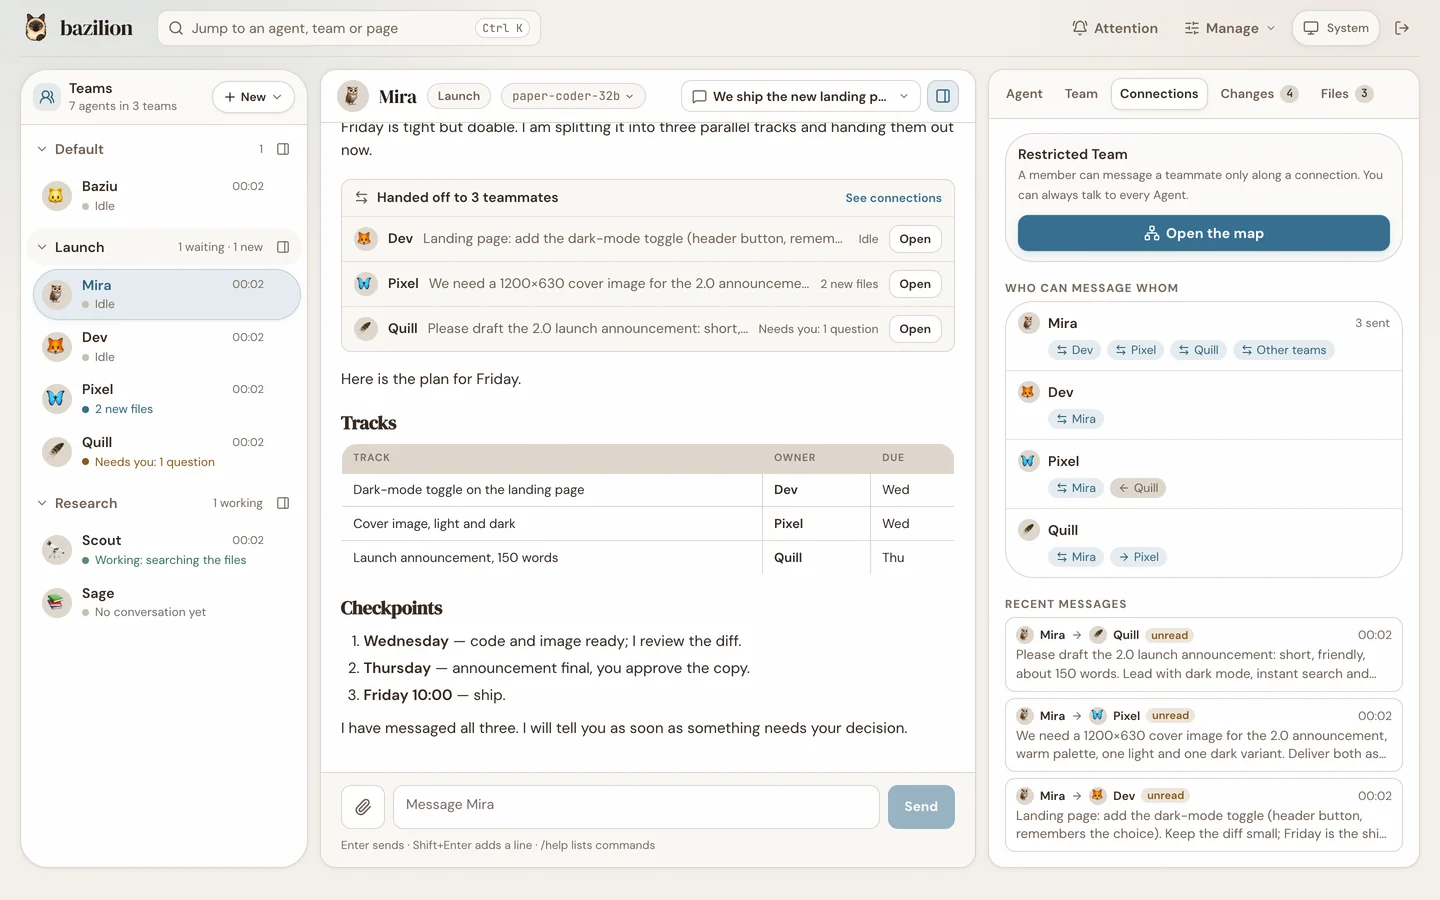
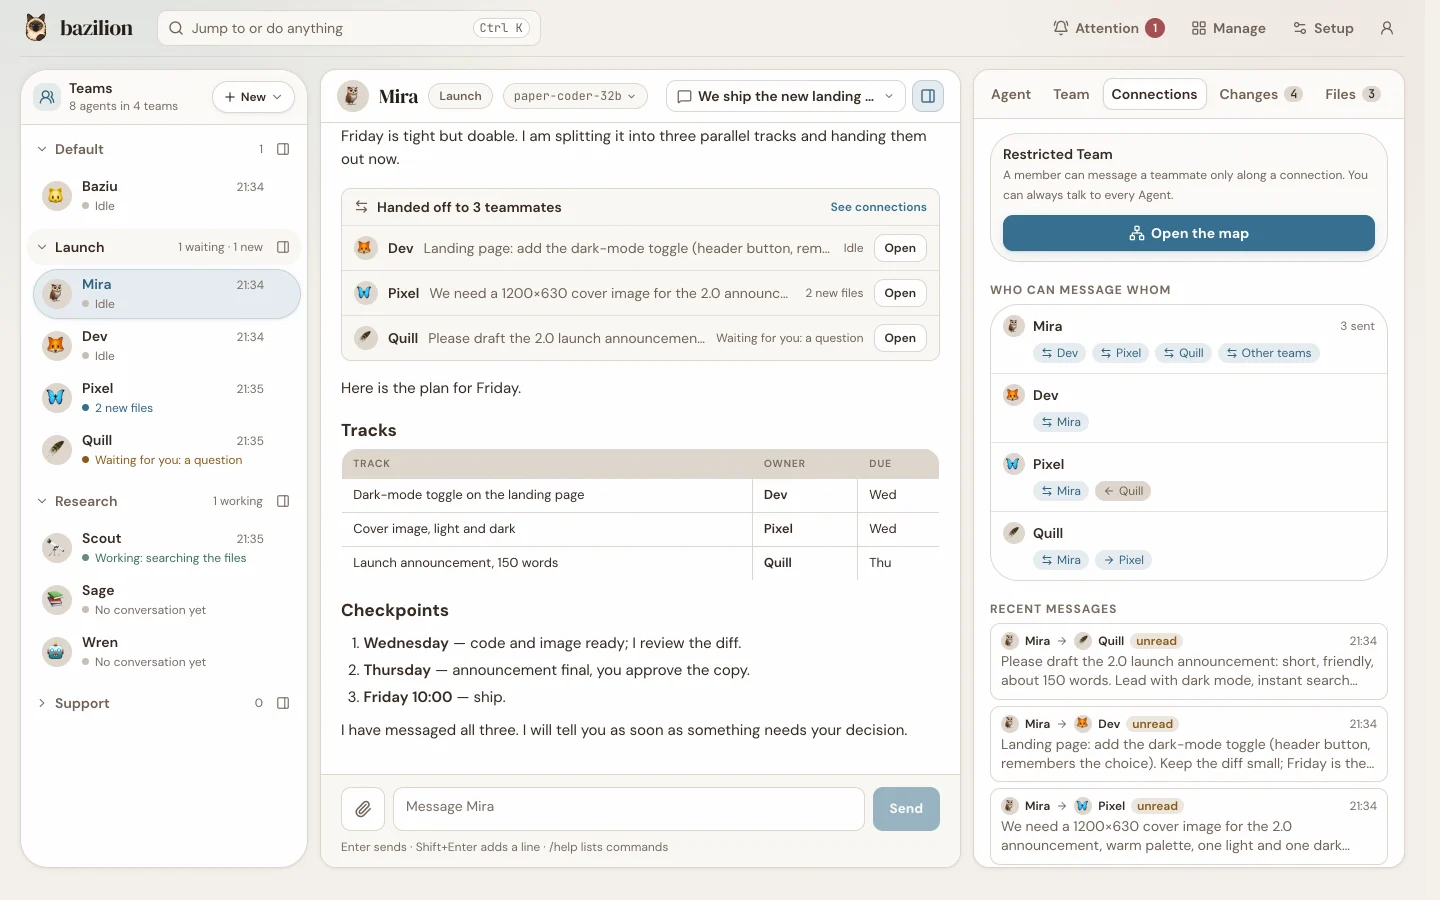
docs: Bazilion 0.54.0
What's new gains 0.54.0 (Attention lists what Agents wait on, an overview
to open on, the sheets on the shared cards, Jump to with actions, keyboard
shortcuts) and drops 0.50.0; 0.53.0 is told in the past. The tour of the
web interface gains the overview, Jump to and the keyboard, and the new top
bar; Attention, questions, daily operations and the coding environment say
what changed. Every product picture is taken again on 0.54.0 (the top bar
changed), with four new ones: the overview, Attention, Jump to and a
Schedules sheet. The version references move to 0.54.0.

diff --git a/src/content/docs/docs/whats-new.md b/src/content/docs/docs/whats-new.md
@@ -1,6 +1,6 @@
 ---
 title: What's new
-description: The latest four Bazilion releases, newest first; Bazilion 0.53.0 bundles Pi 1.5.2.
+description: The latest four Bazilion releases, newest first; Bazilion 0.54.0 bundles Pi 1.5.2.
 ---
 
 The latest four releases, newest first. Older releases are summarised on
@@ -8,12 +8,97 @@ The latest four releases, newest first. Older releases are summarised on
 [GitHub Releases](https://github.com/rullopat/bazilion/releases). Each section describes its own
 release; the rest of the documentation describes the current one.
 
+## Bazilion 0.54.0
+
+Published **2026-11-22**. The web UI now agrees on what needs you. An Agent's question or command
+to approve comes first in **Attention**, the top bar's count and the browser tab stay current, and
+an Agent blocked on you reads **Waiting for you** everywhere. The workspace opens on an overview,
+its sheets use the same cards as Setup and Manage, **Jump to** runs actions, and keyboard
+shortcuts move you around. The embedded Pi engine stays at 1.5.2. See the
+[GitHub release](https://github.com/rullopat/bazilion/releases/tag/v0.54.0) and
+[the tour of the web interface](/docs/web-interface/).
+
+![The workspace with nothing open: an overview of who is waiting for you, who is working, the Teams and the latest files.](/screenshots/overview.webp)
+
+### Upgrade: install and start again
+
+The database schema is unchanged, so a 0.26, 0.27, 0.50, 0.51, 0.52 or 0.53 home opens as it is.
+Stop the daemon, then:
+
+```sh
+npm install -g bazilion@0.54.0
+bazilion dashboard
+```
+
+Nothing is set or moved by the upgrade. A Team you already have keeps its USER.md as it is,
+starter text included; only new Teams start with an empty one. Clear the old text under **About
+you** in the Team tab if you want Agents to fill it in from scratch.
+
+### Added
+
+- **What waits on you comes first in Attention.** An Agent's open question and a command waiting
+  for your approval are Attention items, listed before everything else, soonest to expire first,
+  each with the time it stops waiting. **Answer** and **Decide** open the Agent's conversation.
+  `bazilion attention list` shows them as `agent_question` and `command_approval`. They are not
+  sent as Telegram notifications; a question asked from Telegram is answered there.
+- **An overview to open on.** With nothing open, the workspace shows who is waiting for you, who
+  is working, every Team with its members, the latest files from every Team and the Agents that
+  were active last.
+- **Tab titles.** The browser tab names the page (`Mira · Launch — bazilion`, `Models · Setup —
+  bazilion`) and counts what waits for you (`(1) Quill · Launch — bazilion`).
+- **Jump to runs actions.** Agents waiting for you come first, then those working. It can start a
+  new conversation with the open Agent, add an Agent, switch the theme and list the shortcuts, and
+  it shows recent conversations.
+- **Keyboard shortcuts.** `?` lists them, `/` writes to the open Agent, Alt+↑ and Alt+↓ (⌥ on a
+  Mac) open the previous or next Agent, and ⌘. or Ctrl+. shows or hides the side panel. Keys
+  without ⌘ or Ctrl wait while you type in a field or a list is open.
+
+![Jump to with Quill waiting for an answer at the top, Scout working, and actions to start a conversation, add an Agent, switch the theme and list the shortcuts.](/screenshots/palette.webp)
+
+### Changed
+
+- **One phrase for an Agent blocked on you.** The list, the conversation's steps, the line under the
+  conversation, Jump to and the Team say `Waiting for you` in amber; green and `working` mean it is
+  working. `bazilion activity` says the same.
+- **The top bar** has three places, **Attention**, **Manage** and **Setup**, and a menu at the
+  end with the theme and **Log out**. The count on Attention stays current on every page.
+- **The workspace's sheets use the shared cards.** Schedules, learning, the mailbox, skills,
+  Telegram, the browser, About you, memory and a Team's settings look and work like Setup and
+  Manage. Schedules read as words (`Weekdays at 09:00`) and are added in a dialog with presets,
+  with cron kept for the rest. Memory notes are listed by title and read formatted. Skills are
+  switched on and off. The mailbox names Agents instead of showing ids.
+- **USER.md.** A new Team's USER.md starts empty and the Team tab invites you to write it; its
+  Agents fill it in as they learn about you. The **About you** editor reads it afresh when it
+  opens. A save made from text an Agent has changed since is refused, so the Agent's lines are
+  not lost.
+- **One kind of dropdown everywhere,** drawn like the model menu. The Agent tab saves a model or
+  reasoning change at once, with **Undo**. The Files tab and the gallery filter by kind and by
+  whom in the same way.
+- **Smaller things.** Headings use the text face, except page titles and the Agent's name, on one
+  type scale. A new or deleted file opens in one column in Changes, and a new Markdown file has a
+  **Preview**. The conversation's header stays on one line. The side panel's tabs scroll on a
+  phone. **Edit** sits under your last message. A Team opened on its own lists its members once.
+
+![Mira's schedules: a schedule that reads Weekdays at 09:00 with its message and a switch, and the recent runs below.](/screenshots/schedules.webp)
+
+### Fixed
+
+- **Manage → Skills** showed a skill with a scan finding one letter per line (0.53.0).
+
+### Limits
+
+- Questions and commands waiting for approval live in the daemon's memory: a daemon restart ends
+  them, and with them their Attention items.
+- The changes were checked by hand and by script in Chrome on macOS, at desktop and phone width
+  and in the dark theme, with a stand-in model server; the automated tests cover their logic on
+  Linux but do not drive a browser.
+
 ## Bazilion 0.53.0
 
-Published **2026-11-22**. Agents, Teams, their templates and skills are managed from one
+Published **2026-11-22**. Agents, Teams, their templates and skills came to be managed from one
 **Manage** section that looks and works like Setup: each page shows what there is first, creates
 in a dialog, and says what is worth knowing on each row. Setup's Telegram, System, MCP and Access
-pages use the same cards as Models and Tools. The embedded Pi engine stays at 1.5.2. See the
+pages took the same cards as Models and Tools. The embedded Pi engine stayed at 1.5.2. See the
 [GitHub release](https://github.com/rullopat/bazilion/releases/tag/v0.53.0) and
 [the Manage pages](/docs/web-interface/#manage).
 
@@ -21,18 +106,10 @@ pages use the same cards as Models and Tools. The embedded Pi engine stays at 1.
 
 ### Upgrade: install and start again
 
-The database schema is unchanged, so a 0.26, 0.27, 0.50, 0.51 or 0.52 home opens as it is. Stop
-the daemon, then:
-
-```sh
-npm install -g bazilion@0.53.0
-bazilion dashboard
-```
-
-Nothing is set or moved by the upgrade. The Templates page is now two tabs of Manage, **Agent
+The database schema was unchanged, so a 0.26, 0.27, 0.50, 0.51 or 0.52 home opened as it was, and
+nothing was set or moved by the upgrade. The Templates page became two tabs of Manage, **Agent
 templates** (`/templates/agents`) and **Team templates** (`/templates/teams`), at the addresses
-they had. A 0.25 or older home still needs the reset described in
-[Upgrade to 0.26.0](/docs/getting-started/#upgrade-to-0260).
+they had. The current commands are in [Upgrade to 0.26.0](/docs/getting-started/#upgrade-to-0260).
 
 ### Added
 
@@ -79,10 +156,11 @@ they had. A 0.25 or older home still needs the reset described in
 
 ### Limits
 
-- The workspace's side panel and sheets keep their own cards.
-- The Teams list does not say whether a Team's folder links to a project.
+- The workspace's side panel and sheets kept their own cards (0.54.0 moved them onto the shared
+  ones).
+- The Teams list did not say whether a Team's folder links to a project.
 - The new pages were checked by hand and by script in Chrome on macOS with a stand-in model
-  server; the automated tests cover their logic on Linux but do not drive a browser.
+  server; the automated tests covered their logic on Linux but did not drive a browser.
 
 ## Bazilion 0.52.0
 
@@ -220,66 +298,3 @@ as "Saved, not in use", with a **Connect** button. The current commands are in
   old that is.
 - The new pages were checked by hand in Chrome on macOS with a stand-in model server. The
   automated tests cover their logic on Linux but do not drive a browser.
-
-## Bazilion 0.50.0
-
-Published **2026-11-20**. The web UI became one workspace: the conversation, the Team, who may
-message whom, the diff of what was written and the delivered files are on one screen, and the list
-of Agents says what each one is doing. The version jumped from 0.27 to 0.50 to mark the rework.
-The embedded Pi engine stayed at 1.5.2. See the
-[GitHub release](https://github.com/rullopat/bazilion/releases/tag/v0.50.0) and the
-[tour of the web interface](/docs/web-interface/).
-
-![The workspace: the list of Teams and Agents with a state each, a conversation with its steps, and the Changes tab with a diff.](/screenshots/workspace.webp)
-
-### Upgrade: install and start again
-
-The database schema was unchanged, so a 0.26 or 0.27 home opened as it was. The current commands
-are in [Upgrade to 0.26.0](/docs/getting-started/#upgrade-to-0260).
-
-### Added
-
-- **One workspace on `/`.** Teams and their Agents on the left, the open Agent's conversation in
-  the middle, and a side panel with five tabs: Agent, Team, Connections, Changes and Files. The
-  address holds what is on screen, so links and the back button work.
-- **What each Agent is doing.** Every Agent has a line of its own: `Needs you: 1 question`,
-  `Working: writing theme.js`, `Follow-ups paused`, `2 new files` or `Idle`. Before, the list
-  showed the lifecycle status, which read `IDLE` for an Agent in the middle of a turn.
-- **A transcript that reads.** Tool calls are steps in words with the lines added and removed,
-  instead of escaped JSON. A message to a teammate is a hand-off card that shows what the teammate
-  is doing now. Delivered pictures show as pictures, a turn that wrote files links to their diff,
-  and a question has one button per choice.
-- **Connections.** The Team as a map: one line per pair of Agents, an arrowhead for each allowed
-  direction and the number of recent messages. Select an Agent or a line to switch each direction
-  and to read what they said to each other.
-- **Changes.** Changed files with the Agent that wrote each, the diff in one column or with the
-  old and the new file side by side, comments on a line or a file, and all comments sent to one
-  Agent as one review ([reviewing what changed](/docs/coding-review/)).
-- **Files.** A gallery of everything a Team's Agents delivered, by Agent and by kind, with
-  details, two files side by side and one zip of the lot ([results](/docs/results/)).
-- **Conversations.** An earlier conversation can be continued, not only read, and a conversation
-  is named after the first message you send in it ([conversations](/docs/conversations/)).
-- **Jump to.** Ctrl+K (⌘K on a Mac) opens any Agent, Team, view or page by name.
-- **CLI.** `bazilion activity`, `bazilion team messages <team>`, `bazilion conversation select`,
-  `bazilion result archive`, `bazilion result list --conversation` and
-  `bazilion team review feedback --line`; `team review show` names who wrote each file.
-
-### Changed
-
-- The Agent pages (`/agents/<id>` with its Inbox, Triggers, Learning and Settings tabs) and the
-  Team pages (`/teams/<id>` with its Members, Policy, Memory, Review and Results tabs) are gone.
-  Their content is in the side panel and in sheets that open over the workspace. The old addresses
-  are not redirected; [Attention](/docs/operations/#attention) items link into the workspace.
-- `POST /api/teams/:id/review/feedback` takes
-  `{ agentId, comments: [{ path, line?, note? }], note?, base? }`. The 0.27 body with a single
-  `path` is refused.
-
-### Limits
-
-- The live states come from polling every three seconds, not from a push channel.
-- "New" markers and the layout of the Connections map are kept in the browser, per browser.
-- A changed file's author is the Agent whose `write` or `edit` last touched it in its five newest
-  conversations. Changes made by shell commands have no author.
-- A review that is not sent yet lives in the page and is lost on a reload.
-- The workspace was checked by hand in Chrome on macOS with a scripted model. The automated tests
-  cover its logic and rendering on Linux but do not drive a browser.

diff --git a/src/content/docs/docs/operations.md b/src/content/docs/docs/operations.md
@@ -45,9 +45,12 @@ trigger stops future runs, not a turn that is already running.
 
 ## Attention
 
-**Attention** lists what needs you: lesson proposals, failed or cancelled learning reviews, failed
-triggers, stopped Agent message loops and Agent queues paused after a daemon restart. Open the
-**Attention** page (the badge in the top bar shows the count) or:
+**Attention** lists what needs you. First what an Agent is waiting on right now: a
+[question](/docs/questions/) it asked and a command waiting for your approval, soonest to expire
+first, each with the time it stops waiting. Then lesson proposals, failed or cancelled learning
+reviews, failed triggers, stopped Agent message loops and Agent queues paused after a daemon
+restart. Open the **Attention** page (the count in the top bar stays current, and the browser tab
+counts what waits for you) or:
 
 ```sh
 bazilion attention summary
@@ -56,8 +59,9 @@ bazilion attention acknowledge <key> --yes
 bazilion attention acknowledge-all --yes
 ```
 
-Acknowledging a failure or loop break records that you saw it; it repairs nothing. Proposals and
-paused queues leave the list when you act on them. Attention items can also go to Telegram; see
+Acknowledging a failure or loop break records that you saw it; it repairs nothing. Questions,
+commands, proposals and paused queues leave the list when you act on them; a question or a command
+also leaves it when it stops waiting, or when the daemon restarts. Attention items can also go to Telegram; see
 [Attention notifications](/docs/attention-notifications/).
 
 ## Reviewed learning

diff --git a/src/content/docs/docs/attention-notifications.md b/src/content/docs/docs/attention-notifications.md
@@ -3,10 +3,12 @@ title: Attention notifications
 description: Send new Attention items to the Telegram bot's service topic, by kind and with quiet hours, from the web or the CLI.
 ---
 
-**Attention** lists what needs you: lesson proposals, failed or cancelled learning reviews,
-failed scheduled triggers, stopped Agent message loops and Agent queues paused after a daemon
-restart (see [Daily operations](/docs/operations/#attention)). Bazilion can post new items to the
+**Attention** lists what needs you: an Agent's questions and commands waiting for approval, lesson
+proposals, failed or cancelled learning reviews, failed scheduled triggers, stopped Agent message
+loops and Agent queues paused after a daemon restart (see
+[Daily operations](/docs/operations/#attention)). Bazilion can post new items to the
 [Telegram](/docs/telegram/) bot's service topic, so they reach your phone. This is off by default.
+Questions and commands are never posted: a question asked from Telegram is answered there.
 
 Each new open item of a selected kind is sent once, with its title, Agent and Team. When the web UI
 is published at `BAZILION_PUBLIC_ORIGIN` the notice links to the item; otherwise open

diff --git a/src/content/docs/docs/getting-started.md b/src/content/docs/docs/getting-started.md
@@ -82,8 +82,8 @@ bazilion agent chat <agent-id> --message "say hi"
 There are no database migrations. A release opens a home only when its schema matches the one it
 ships; otherwise the daemon refuses to start and leaves the home untouched.
 
-**From 0.26, 0.27, 0.50, 0.51 or 0.52:** 0.53.0 uses the same schema, so the home opens as it
-is. Stop the daemon, run `npm install -g bazilion@0.53.0` and start Bazilion again. Coming from 0.26 or
+**From 0.26, 0.27, 0.50, 0.51, 0.52 or 0.53:** 0.54.0 uses the same schema, so the home opens as
+it is. Stop the daemon, run `npm install -g bazilion@0.54.0` and start Bazilion again. Coming from 0.26 or
 0.27, the web UI is laid out anew: see the [tour of the web interface](/docs/web-interface/).
 Coming from 0.50 or earlier, providers you had switched on keep working and read "Not tested yet"
 under **Setup → Models** until their first test.
@@ -103,7 +103,7 @@ current release:
    removes them too.
 
    ```sh
-   npm install -g bazilion@0.53.0
+   npm install -g bazilion@0.54.0
    bazilion uninstall --yes
    ```
 

diff --git a/src/content/docs/docs/questions.md b/src/content/docs/docs/questions.md
@@ -17,9 +17,10 @@ learning reviews) do not get the tool.
 
 ## Answering
 
-- **Web:** the question appears under the chat, and the Agent's line in the list says
-  `Needs you: 1 question`. Click a choice to answer with it, write your own answer and
-  **Send answer**, or **Skip**.
+- **Web:** the question appears under the chat, the Agent's line in the list says
+  `Waiting for you: a question`, and it is the first item of **Attention**, with the time it stops
+  waiting. Click a choice to answer with it, write your own answer and **Send answer**, or
+  **Skip**.
 - **Terminal chat:** `bazilion agent chat` prompts for a number, `o` for your own text or `s` to
   skip. Blank input picks nothing.
 - **CLI, from another terminal:**

diff --git a/src/content/docs/docs/concepts.md b/src/content/docs/docs/concepts.md
@@ -12,7 +12,7 @@ Bazilion is built on
 [Pi's coding agent](https://www.npmjs.com/package/@earendil-works/pi-coding-agent). Pi runs the
 turn loop and the provider calls, compacts history and writes the JSONL transcript under each
 Agent's `sessions/` directory. Bazilion supplies Agents and Teams, credentials, the tool list, the
-worker processes and the long-lived browser and MCP connections. Version 0.53.0 bundles Pi 1.5.2,
+worker processes and the long-lived browser and MCP connections. Version 0.54.0 bundles Pi 1.5.2,
 with Pi's own discovery of extensions, skills, prompt templates and context files switched off.
 
 ## Profiles (Agent templates)

diff --git a/src/content/docs/docs/configuration.md b/src/content/docs/docs/configuration.md
@@ -10,7 +10,7 @@ CLI and the web UI are clients of its HTTP API.
 
 Models are written `provider:model`, for example `anthropic:claude-fable-5-2`,
 `openai-codex:gpt-6.1-sol` or `lmstudio:my-loaded-model`. Model ids come from Pi's bundled
-catalog; Bazilion 0.53.0 bundles Pi 1.5.2. An id that is not in the catalog is refused as
+catalog; Bazilion 0.54.0 bundles Pi 1.5.2. An id that is not in the catalog is refused as
 "Unknown model" unless the provider has an endpoint you configured, so a typo never sends a key to
 another vendor.
 

diff --git a/src/content/docs/docs/coding-environment.md b/src/content/docs/docs/coding-environment.md
@@ -78,7 +78,7 @@ bazilion config set BAZILION_BASH_SANDBOX_IMAGE bazilion-coding:node26-pnpm12
 ## Team defaults
 
 A Team can name its own image and a working directory inside the Team; both apply only in Docker
-mode. On the web, open the Team page and expand **Docker sandbox defaults**. From the CLI:
+mode. On the web, open **Settings** in the Team tab: **Commands in Docker** is under **Workspace**. From the CLI:
 
 ```sh
 bazilion team environment show <team>
